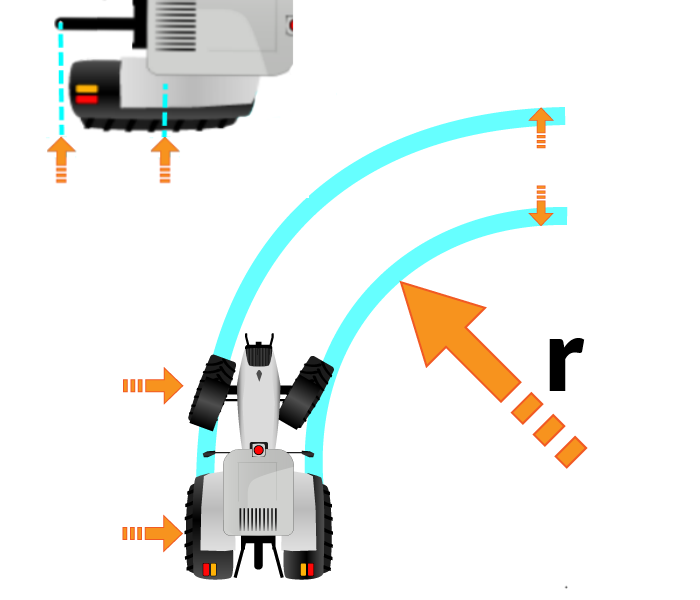
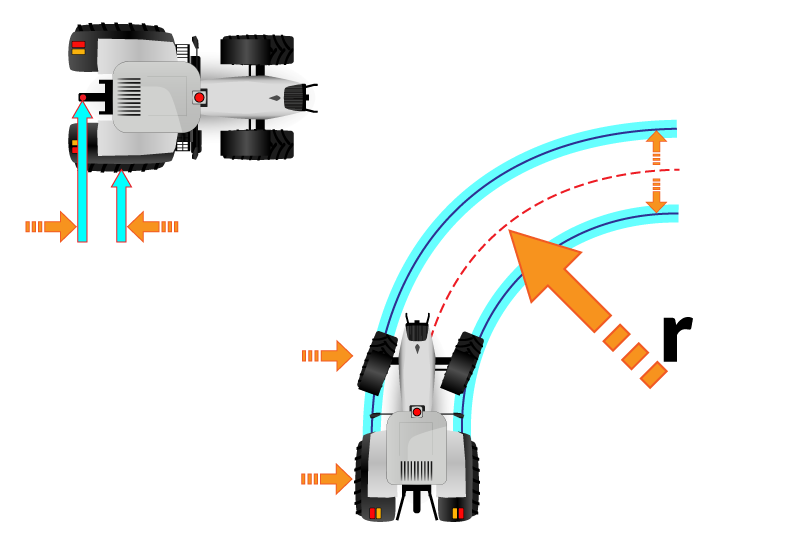
Fix vehicle dimensions

Changed region(s): [[0.15, 0.156, 0.87, 0.967], [0.03, 0.0, 0.42, 0.4679]]

diff --git a/SourceCode/GPS/Forms/Settings/FormConfig.Designer.cs b/SourceCode/GPS/Forms/Settings/FormConfig.Designer.cs
@@ -681,6 +681,7 @@
             // 
             // panelLeftSideMenu
             // 
+            this.panelLeftSideMenu.AutoScroll = true;
             this.panelLeftSideMenu.BackColor = System.Drawing.SystemColors.GradientInactiveCaption;
             this.panelLeftSideMenu.Controls.Add(this.btnDisplay);
             this.panelLeftSideMenu.Controls.Add(this.btnFeatureHides);
@@ -714,7 +715,7 @@
             this.btnDisplay.Location = new System.Drawing.Point(0, 1669);
             this.btnDisplay.Name = "btnDisplay";
             this.btnDisplay.Padding = new System.Windows.Forms.Padding(3, 0, 0, 0);
-            this.btnDisplay.Size = new System.Drawing.Size(120, 80);
+            this.btnDisplay.Size = new System.Drawing.Size(103, 80);
             this.btnDisplay.TabIndex = 2;
             this.btnDisplay.TextAlign = System.Drawing.ContentAlignment.MiddleLeft;
             this.btnDisplay.TextImageRelation = System.Windows.Forms.TextImageRelation.ImageBeforeText;
@@ -735,7 +736,7 @@
             this.btnFeatureHides.Location = new System.Drawing.Point(0, 1589);
             this.btnFeatureHides.Name = "btnFeatureHides";
             this.btnFeatureHides.Padding = new System.Windows.Forms.Padding(3, 0, 0, 0);
-            this.btnFeatureHides.Size = new System.Drawing.Size(120, 80);
+            this.btnFeatureHides.Size = new System.Drawing.Size(103, 80);
             this.btnFeatureHides.TabIndex = 4;
             this.btnFeatureHides.TextAlign = System.Drawing.ContentAlignment.MiddleLeft;
             this.btnFeatureHides.TextImageRelation = System.Windows.Forms.TextImageRelation.ImageBeforeText;
@@ -756,7 +757,7 @@
             this.btnTram.Location = new System.Drawing.Point(0, 1509);
             this.btnTram.Name = "btnTram";
             this.btnTram.Padding = new System.Windows.Forms.Padding(3, 0, 0, 0);
-            this.btnTram.Size = new System.Drawing.Size(120, 80);
+            this.btnTram.Size = new System.Drawing.Size(103, 80);
             this.btnTram.TabIndex = 3;
             this.btnTram.TextAlign = System.Drawing.ContentAlignment.MiddleLeft;
             this.btnTram.TextImageRelation = System.Windows.Forms.TextImageRelation.ImageBeforeText;
@@ -771,7 +772,7 @@
             this.panelArduinoSubMenu.Dock = System.Windows.Forms.DockStyle.Top;
             this.panelArduinoSubMenu.Location = new System.Drawing.Point(0, 1349);
             this.panelArduinoSubMenu.Name = "panelArduinoSubMenu";
-            this.panelArduinoSubMenu.Size = new System.Drawing.Size(120, 160);
+            this.panelArduinoSubMenu.Size = new System.Drawing.Size(103, 160);
             this.panelArduinoSubMenu.TabIndex = 116;
             // 
             // btnMachineRelay
@@ -788,7 +789,7 @@
             this.btnMachineRelay.Location = new System.Drawing.Point(0, 80);
             this.btnMachineRelay.Name = "btnMachineRelay";
             this.btnMachineRelay.Padding = new System.Windows.Forms.Padding(25, 0, 0, 0);
-            this.btnMachineRelay.Size = new System.Drawing.Size(120, 80);
+            this.btnMachineRelay.Size = new System.Drawing.Size(103, 80);
             this.btnMachineRelay.TabIndex = 3;
             this.btnMachineRelay.TextAlign = System.Drawing.ContentAlignment.MiddleLeft;
             this.btnMachineRelay.UseVisualStyleBackColor = false;
@@ -808,7 +809,7 @@
             this.btnMachineModule.Location = new System.Drawing.Point(0, 0);
             this.btnMachineModule.Name = "btnMachineModule";
             this.btnMachineModule.Padding = new System.Windows.Forms.Padding(25, 0, 0, 0);
-            this.btnMachineModule.Size = new System.Drawing.Size(120, 80);
+            this.btnMachineModule.Size = new System.Drawing.Size(103, 80);
             this.btnMachineModule.TabIndex = 1;
             this.btnMachineModule.TextAlign = System.Drawing.ContentAlignment.MiddleLeft;
             this.btnMachineModule.UseVisualStyleBackColor = false;
@@ -828,7 +829,7 @@
             this.btnArduino.Location = new System.Drawing.Point(0, 1269);
             this.btnArduino.Name = "btnArduino";
             this.btnArduino.Padding = new System.Windows.Forms.Padding(3, 0, 0, 0);
-            this.btnArduino.Size = new System.Drawing.Size(120, 80);
+            this.btnArduino.Size = new System.Drawing.Size(103, 80);
             this.btnArduino.TabIndex = 115;
             this.btnArduino.TextAlign = System.Drawing.ContentAlignment.MiddleLeft;
             this.btnArduino.TextImageRelation = System.Windows.Forms.TextImageRelation.ImageBeforeText;
@@ -849,7 +850,7 @@
             this.btnUTurn.Location = new System.Drawing.Point(0, 1194);
             this.btnUTurn.Name = "btnUTurn";
             this.btnUTurn.Padding = new System.Windows.Forms.Padding(3, 0, 0, 0);
-            this.btnUTurn.Size = new System.Drawing.Size(120, 75);
+            this.btnUTurn.Size = new System.Drawing.Size(103, 75);
             this.btnUTurn.TabIndex = 116;
             this.btnUTurn.TextAlign = System.Drawing.ContentAlignment.MiddleLeft;
             this.btnUTurn.TextImageRelation = System.Windows.Forms.TextImageRelation.ImageBeforeText;
@@ -864,7 +865,7 @@
             this.panelDataSourcesSubMenu.Dock = System.Windows.Forms.DockStyle.Top;
             this.panelDataSourcesSubMenu.Location = new System.Drawing.Point(0, 1034);
             this.panelDataSourcesSubMenu.Name = "panelDataSourcesSubMenu";
-            this.panelDataSourcesSubMenu.Size = new System.Drawing.Size(120, 160);
+            this.panelDataSourcesSubMenu.Size = new System.Drawing.Size(103, 160);
             this.panelDataSourcesSubMenu.TabIndex = 7;
             // 
             // btnSubRoll
@@ -881,7 +882,7 @@
             this.btnSubRoll.Location = new System.Drawing.Point(0, 80);
             this.btnSubRoll.Name = "btnSubRoll";
             this.btnSubRoll.Padding = new System.Windows.Forms.Padding(22, 0, 0, 0);
-            this.btnSubRoll.Size = new System.Drawing.Size(120, 80);
+            this.btnSubRoll.Size = new System.Drawing.Size(103, 80);
             this.btnSubRoll.TabIndex = 0;
             this.btnSubRoll.TextAlign = System.Drawing.ContentAlignment.MiddleLeft;
             this.btnSubRoll.UseVisualStyleBackColor = false;
@@ -901,7 +902,7 @@
             this.btnSubHeading.Location = new System.Drawing.Point(0, 0);
             this.btnSubHeading.Name = "btnSubHeading";
             this.btnSubHeading.Padding = new System.Windows.Forms.Padding(25, 0, 0, 0);
-            this.btnSubHeading.Size = new System.Drawing.Size(120, 80);
+            this.btnSubHeading.Size = new System.Drawing.Size(103, 80);
             this.btnSubHeading.TabIndex = 1;
             this.btnSubHeading.TextAlign = System.Drawing.ContentAlignment.MiddleLeft;
             this.btnSubHeading.UseVisualStyleBackColor = false;
@@ -921,7 +922,7 @@
             this.btnDataSources.Location = new System.Drawing.Point(0, 954);
             this.btnDataSources.Name = "btnDataSources";
             this.btnDataSources.Padding = new System.Windows.Forms.Padding(3, 0, 0, 0);
-            this.btnDataSources.Size = new System.Drawing.Size(120, 80);
+            this.btnDataSources.Size = new System.Drawing.Size(103, 80);
             this.btnDataSources.TabIndex = 114;
             this.btnDataSources.TextAlign = System.Drawing.ContentAlignment.MiddleLeft;
             this.btnDataSources.TextImageRelation = System.Windows.Forms.TextImageRelation.ImageBeforeText;
@@ -941,7 +942,7 @@
             this.panelToolSubMenu.Dock = System.Windows.Forms.DockStyle.Top;
             this.panelToolSubMenu.Location = new System.Drawing.Point(0, 448);
             this.panelToolSubMenu.Name = "panelToolSubMenu";
-            this.panelToolSubMenu.Size = new System.Drawing.Size(120, 506);
+            this.panelToolSubMenu.Size = new System.Drawing.Size(103, 506);
             this.panelToolSubMenu.TabIndex = 4;
             // 
             // btnSubSwitches
@@ -958,7 +959,7 @@
             this.btnSubSwitches.Location = new System.Drawing.Point(0, 432);
             this.btnSubSwitches.Name = "btnSubSwitches";
             this.btnSubSwitches.Padding = new System.Windows.Forms.Padding(22, 0, 0, 0);
-            this.btnSubSwitches.Size = new System.Drawing.Size(120, 72);
+            this.btnSubSwitches.Size = new System.Drawing.Size(103, 72);
             this.btnSubSwitches.TabIndex = 1;
             this.btnSubSwitches.TextAlign = System.Drawing.ContentAlignment.MiddleLeft;
             this.btnSubSwitches.UseVisualStyleBackColor = false;
@@ -978,7 +979,7 @@
             this.btnSubToolSettings.Location = new System.Drawing.Point(0, 360);
             this.btnSubToolSettings.Name = "btnSubToolSettings";
             this.btnSubToolSettings.Padding = new System.Windows.Forms.Padding(25, 0, 0, 0);
-            this.btnSubToolSettings.Size = new System.Drawing.Size(120, 72);
+            this.btnSubToolSettings.Size = new System.Drawing.Size(103, 72);
             this.btnSubToolSettings.TabIndex = 4;
             this.btnSubToolSettings.TextAlign = System.Drawing.ContentAlignment.MiddleLeft;
             this.btnSubToolSettings.UseVisualStyleBackColor = false;
@@ -998,7 +999,7 @@
             this.btnSubSections.Location = new System.Drawing.Point(0, 288);
             this.btnSubSections.Name = "btnSubSections";
             this.btnSubSections.Padding = new System.Windows.Forms.Padding(22, 0, 0, 0);
-            this.btnSubSections.Size = new System.Drawing.Size(120, 72);
+            this.btnSubSections.Size = new System.Drawing.Size(103, 72);
             this.btnSubSections.TabIndex = 0;
             this.btnSubSections.TextAlign = System.Drawing.ContentAlignment.MiddleLeft;
             this.btnSubSections.UseVisualStyleBackColor = false;
@@ -1018,7 +1019,7 @@
             this.btnSubToolOffset.Location = new System.Drawing.Point(0, 216);
             this.btnSubToolOffset.Name = "btnSubToolOffset";
             this.btnSubToolOffset.Padding = new System.Windows.Forms.Padding(22, 0, 0, 0);
-            this.btnSubToolOffset.Size = new System.Drawing.Size(120, 72);
+            this.btnSubToolOffset.Size = new System.Drawing.Size(103, 72);
             this.btnSubToolOffset.TabIndex = 1;
             this.btnSubToolOffset.TextAlign = System.Drawing.ContentAlignment.MiddleLeft;
             this.btnSubToolOffset.UseVisualStyleBackColor = false;
@@ -1038,7 +1039,7 @@
             this.btnSubPivot.Location = new System.Drawing.Point(0, 144);
             this.btnSubPivot.Name = "btnSubPivot";
             this.btnSubPivot.Padding = new System.Windows.Forms.Padding(22, 0, 0, 0);
-            this.btnSubPivot.Size = new System.Drawing.Size(120, 72);
+            this.btnSubPivot.Size = new System.Drawing.Size(103, 72);
             this.btnSubPivot.TabIndex = 217;
             this.btnSubPivot.TextAlign = System.Drawing.ContentAlignment.MiddleLeft;
             this.btnSubPivot.UseVisualStyleBackColor = false;
@@ -1058,7 +1059,7 @@
             this.btnSubHitch.Location = new System.Drawing.Point(0, 72);
             this.btnSubHitch.Name = "btnSubHitch";
             this.btnSubHitch.Padding = new System.Windows.Forms.Padding(25, 0, 0, 0);
-            this.btnSubHitch.Size = new System.Drawing.Size(120, 72);
+            this.btnSubHitch.Size = new System.Drawing.Size(103, 72);
             this.btnSubHitch.TabIndex = 5;
             this.btnSubHitch.TextAlign = System.Drawing.ContentAlignment.MiddleLeft;
             this.btnSubHitch.UseVisualStyleBackColor = false;
@@ -1078,7 +1079,7 @@
             this.btnSubToolType.Location = new System.Drawing.Point(0, 0);
             this.btnSubToolType.Name = "btnSubToolType";
             this.btnSubToolType.Padding = new System.Windows.Forms.Padding(22, 0, 0, 0);
-            this.btnSubToolType.Size = new System.Drawing.Size(120, 72);
+            this.btnSubToolType.Size = new System.Drawing.Size(103, 72);
             this.btnSubToolType.TabIndex = 6;
             this.btnSubToolType.TextAlign = System.Drawing.ContentAlignment.MiddleLeft;
             this.btnSubToolType.UseVisualStyleBackColor = false;
@@ -1098,7 +1099,7 @@
             this.btnTool.Location = new System.Drawing.Point(0, 368);
             this.btnTool.Name = "btnTool";
             this.btnTool.Padding = new System.Windows.Forms.Padding(5, 0, 0, 0);
-            this.btnTool.Size = new System.Drawing.Size(120, 80);
+            this.btnTool.Size = new System.Drawing.Size(103, 80);
             this.btnTool.TabIndex = 3;
             this.btnTool.TextAlign = System.Drawing.ContentAlignment.MiddleLeft;
             this.btnTool.TextImageRelation = System.Windows.Forms.TextImageRelation.ImageBeforeText;
@@ -1116,7 +1117,7 @@
             this.panelVehicleSubMenu.Dock = System.Windows.Forms.DockStyle.Top;
             this.panelVehicleSubMenu.Location = new System.Drawing.Point(0, 80);
             this.panelVehicleSubMenu.Name = "panelVehicleSubMenu";
-            this.panelVehicleSubMenu.Size = new System.Drawing.Size(120, 288);
+            this.panelVehicleSubMenu.Size = new System.Drawing.Size(103, 288);
             this.panelVehicleSubMenu.TabIndex = 2;
             // 
             // button1
@@ -1149,7 +1150,7 @@
             this.btnSubGuidance.Location = new System.Drawing.Point(0, 216);
             this.btnSubGuidance.Name = "btnSubGuidance";
             this.btnSubGuidance.Padding = new System.Windows.Forms.Padding(25, 0, 0, 0);
-            this.btnSubGuidance.Size = new System.Drawing.Size(120, 72);
+            this.btnSubGuidance.Size = new System.Drawing.Size(103, 72);
             this.btnSubGuidance.TabIndex = 3;
             this.btnSubGuidance.TextAlign = System.Drawing.ContentAlignment.MiddleLeft;
             this.btnSubGuidance.UseVisualStyleBackColor = false;
@@ -1169,7 +1170,7 @@
             this.btnSubAntenna.Location = new System.Drawing.Point(0, 144);
             this.btnSubAntenna.Name = "btnSubAntenna";
             this.btnSubAntenna.Padding = new System.Windows.Forms.Padding(22, 0, 0, 0);
-            this.btnSubAntenna.Size = new System.Drawing.Size(120, 72);
+            this.btnSubAntenna.Size = new System.Drawing.Size(103, 72);
             this.btnSubAntenna.TabIndex = 2;
             this.btnSubAntenna.TextAlign = System.Drawing.ContentAlignment.MiddleLeft;
             this.btnSubAntenna.UseVisualStyleBackColor = false;
@@ -1189,7 +1190,7 @@
             this.btnSubDimensions.Location = new System.Drawing.Point(0, 72);
             this.btnSubDimensions.Name = "btnSubDimensions";
             this.btnSubDimensions.Padding = new System.Windows.Forms.Padding(25, 0, 0, 0);
-            this.btnSubDimensions.Size = new System.Drawing.Size(120, 72);
+            this.btnSubDimensions.Size = new System.Drawing.Size(103, 72);
             this.btnSubDimensions.TabIndex = 1;
             this.btnSubDimensions.TextAlign = System.Drawing.ContentAlignment.MiddleLeft;
             this.btnSubDimensions.UseVisualStyleBackColor = false;
@@ -1209,7 +1210,7 @@
             this.btnSubVehicleType.Location = new System.Drawing.Point(0, 0);
             this.btnSubVehicleType.Name = "btnSubVehicleType";
             this.btnSubVehicleType.Padding = new System.Windows.Forms.Padding(22, 0, 0, 0);
-            this.btnSubVehicleType.Size = new System.Drawing.Size(120, 72);
+            this.btnSubVehicleType.Size = new System.Drawing.Size(103, 72);
             this.btnSubVehicleType.TabIndex = 0;
             this.btnSubVehicleType.TextAlign = System.Drawing.ContentAlignment.MiddleLeft;
             this.btnSubVehicleType.UseVisualStyleBackColor = false;
@@ -1229,7 +1230,7 @@
             this.btnVehicle.Location = new System.Drawing.Point(0, 0);
             this.btnVehicle.Name = "btnVehicle";
             this.btnVehicle.Padding = new System.Windows.Forms.Padding(5, 0, 0, 0);
-            this.btnVehicle.Size = new System.Drawing.Size(120, 80);
+            this.btnVehicle.Size = new System.Drawing.Size(103, 80);
             this.btnVehicle.TabIndex = 113;
             this.btnVehicle.TextAlign = System.Drawing.ContentAlignment.MiddleLeft;
             this.btnVehicle.TextImageRelation = System.Windows.Forms.TextImageRelation.ImageBeforeText;
@@ -2486,19 +2487,18 @@
             // 
             this.label27.AutoSize = true;
             this.label27.ForeColor = System.Drawing.SystemColors.ControlText;
-            this.label27.Location = new System.Drawing.Point(169, 253);
+            this.label27.Location = new System.Drawing.Point(68, 327);
             this.label27.Name = "label27";
             this.label27.Size = new System.Drawing.Size(77, 16);
             this.label27.TabIndex = 479;
             this.label27.Text = "Hitch Length";
-            this.label27.Click += new System.EventHandler(this.label27_Click);
             // 
             // nudTractorHitchLength
             // 
             this.nudTractorHitchLength.BackColor = System.Drawing.Color.AliceBlue;
             this.nudTractorHitchLength.Font = new System.Drawing.Font("Tahoma", 27.75F, System.Drawing.FontStyle.Bold, System.Drawing.GraphicsUnit.Point, ((byte)(0)));
             this.nudTractorHitchLength.InterceptArrowKeys = false;
-            this.nudTractorHitchLength.Location = new System.Drawing.Point(138, 198);
+            this.nudTractorHitchLength.Location = new System.Drawing.Point(37, 272);
             this.nudTractorHitchLength.Maximum = new decimal(new int[] {
             9999,
             0,
@@ -2526,7 +2526,7 @@
             // 
             this.label60.AutoSize = true;
             this.label60.ForeColor = System.Drawing.SystemColors.ControlText;
-            this.label60.Location = new System.Drawing.Point(677, 479);
+            this.label60.Location = new System.Drawing.Point(663, 479);
             this.label60.Name = "label60";
             this.label60.Size = new System.Drawing.Size(76, 16);
             this.label60.TabIndex = 477;
@@ -2536,7 +2536,7 @@
             // 
             this.label53.AutoSize = true;
             this.label53.ForeColor = System.Drawing.SystemColors.ControlText;
-            this.label53.Location = new System.Drawing.Point(695, 201);
+            this.label53.Location = new System.Drawing.Point(755, 221);
             this.label53.Name = "label53";
             this.label53.Size = new System.Drawing.Size(39, 16);
             this.label53.TabIndex = 476;
@@ -2546,7 +2546,7 @@
             // 
             this.label44.AutoSize = true;
             this.label44.ForeColor = System.Drawing.SystemColors.ControlText;
-            this.label44.Location = new System.Drawing.Point(163, 450);
+            this.label44.Location = new System.Drawing.Point(226, 453);
             this.label44.Name = "label44";
             this.label44.Size = new System.Drawing.Size(70, 16);
             this.label44.TabIndex = 475;
@@ -2557,7 +2557,7 @@
             this.nudVehicleTrack.BackColor = System.Drawing.Color.AliceBlue;
             this.nudVehicleTrack.Font = new System.Drawing.Font("Tahoma", 27.75F, System.Drawing.FontStyle.Bold, System.Drawing.GraphicsUnit.Point, ((byte)(0)));
             this.nudVehicleTrack.InterceptArrowKeys = false;
-            this.nudVehicleTrack.Location = new System.Drawing.Point(644, 146);
+            this.nudVehicleTrack.Location = new System.Drawing.Point(700, 165);
             this.nudVehicleTrack.Maximum = new decimal(new int[] {
             9999,
             0,
@@ -2571,7 +2571,7 @@
             this.nudVehicleTrack.Name = "nudVehicleTrack";
             this.nudVehicleTrack.ReadOnly = true;
             this.nudVehicleTrack.RightToLeft = System.Windows.Forms.RightToLeft.No;
-            this.nudVehicleTrack.Size = new System.Drawing.Size(152, 52);
+            this.nudVehicleTrack.Size = new System.Drawing.Size(133, 52);
             this.nudVehicleTrack.TabIndex = 53;
             this.nudVehicleTrack.TextAlign = System.Windows.Forms.HorizontalAlignment.Center;
             this.nudVehicleTrack.Value = new decimal(new int[] {
@@ -2586,7 +2586,7 @@
             this.nudWheelbase.BackColor = System.Drawing.Color.AliceBlue;
             this.nudWheelbase.Font = new System.Drawing.Font("Tahoma", 27.75F, System.Drawing.FontStyle.Bold, System.Drawing.GraphicsUnit.Point, ((byte)(0)));
             this.nudWheelbase.InterceptArrowKeys = false;
-            this.nudWheelbase.Location = new System.Drawing.Point(116, 394);
+            this.nudWheelbase.Location = new System.Drawing.Point(179, 397);
             this.nudWheelbase.Maximum = new decimal(new int[] {
             1999,
             0,
@@ -2615,7 +2615,7 @@
             this.nudMinTurnRadius.BackColor = System.Drawing.Color.AliceBlue;
             this.nudMinTurnRadius.Font = new System.Drawing.Font("Tahoma", 27.75F, System.Drawing.FontStyle.Bold, System.Drawing.GraphicsUnit.Point, ((byte)(0)));
             this.nudMinTurnRadius.InterceptArrowKeys = false;
-            this.nudMinTurnRadius.Location = new System.Drawing.Point(644, 424);
+            this.nudMinTurnRadius.Location = new System.Drawing.Point(630, 424);
             this.nudMinTurnRadius.Maximum = new decimal(new int[] {
             9999,
             0,
@@ -2643,7 +2643,7 @@
             // 
             this.pictureBox1.Image = global::AgOpenGPS.Properties.Resources.RadiusWheelBase;
             this.pictureBox1.InitialImage = null;
-            this.pictureBox1.Location = new System.Drawing.Point(18, 22);
+            this.pictureBox1.Location = new System.Drawing.Point(4, 22);
             this.pictureBox1.Name = "pictureBox1";
             this.pictureBox1.Size = new System.Drawing.Size(814, 545);
             this.pictureBox1.SizeMode = System.Windows.Forms.PictureBoxSizeMode.Zoom;

diff --git a/SourceCode/GPS/Forms/Settings/FormConfig.cs b/SourceCode/GPS/Forms/Settings/FormConfig.cs
@@ -305,10 +305,5 @@ namespace AgOpenGPS
             Close();
             //FormConfig_Load(this, e);
         }
-
-        private void label27_Click(object sender, EventArgs e)
-        {
-
-        }
     }
 }
